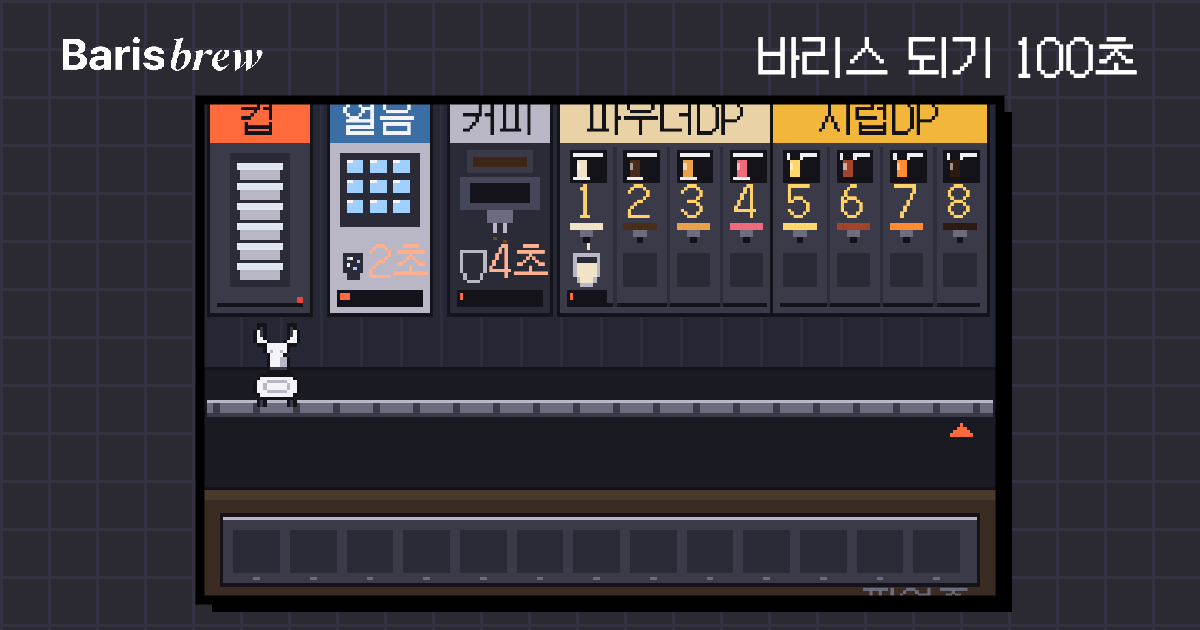
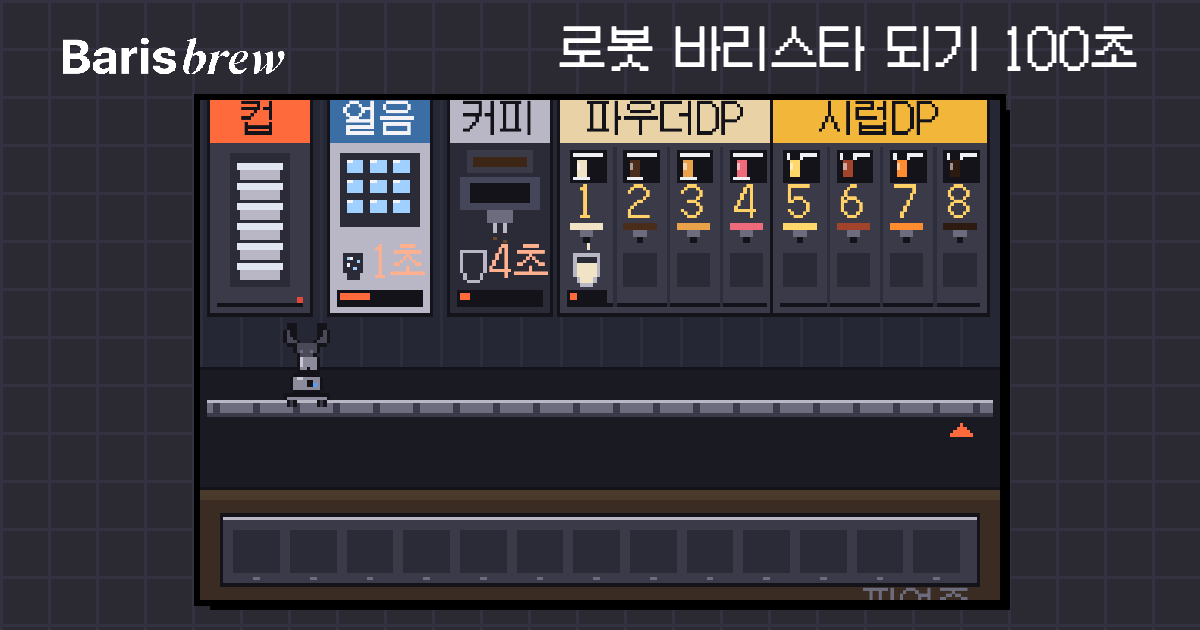
타이틀을 「로봇 바리스타 되기 100초」로 — 바리스 이름은 시작 토스트와 결과 카드에서만
Claude-Session: https://claude.ai/code/session_01AAc1fRwvLSDh1RRvPRweCr

diff --git a/index.html b/index.html
@@ -3,9 +3,9 @@
 <head>
 <meta charset="utf-8">
 <meta name="viewport" content="width=device-width, initial-scale=1, viewport-fit=cover">
-<title>바리스 되기 100초</title>
+<title>로봇 바리스타 되기 100초</title>
 <meta name="description" content="로봇 바리스타 바리스의 레일 위에서 보내는 하루. 주문을 받고, 컵을 집고, 기계에 걸어 두고 다음 컵을 집으세요.">
-<meta property="og:title" content="바리스 되기 100초">
+<meta property="og:title" content="로봇 바리스타 되기 100초">
 <meta property="og:description" content="바리스브루 로봇 바리스타의 레일 위에서 100초 영업. 몇 잔까지 만들 수 있을까?">
 <meta property="og:image" content="https://jun-xyz.github.io/baris-game/assets/og.png">
 <meta property="og:image:width" content="1200">
@@ -177,8 +177,8 @@
     <canvas class="tbg" id="tbg"></canvas>
     <div class="tlogo">
       <img src="assets/logo_barisbrew_white.png" alt="BarisBrew">
-      <h1>바리스 되기<br>100초</h1>
-      <p>로봇 바리스타의 하루 영업</p>
+      <h1>로봇 바리스타<br>되기 100초</h1>
+      <p>레일 위에서 100초, 주문을 받아 보세요</p>
     </div>
     <ul class="menu" id="menu">
       <li data-act="start">영업 시작</li>
@@ -684,7 +684,7 @@ function start() {
   g = createGame({ difficulty: settings.difficulty }); window.__game = g;
   titleOff(); $('end').classList.remove('on');
   last = performance.now(); lastEvent = 0; lastTickSec = -1; fx.length = 0; pick.length = 0; cardEls.clear(); $('orders').innerHTML = '';
-  toast('컵 기계에서 컵을 집으세요');
+  toast('저는 바리스입니다. 오늘은 당신 차례. 컵부터 집으세요.', '', 3600);
   if (!isPC) $('hint').style.display = 'none';
   clearInterval(timer); timer = setInterval(loop, 16);
   BGM.start();
@@ -726,7 +726,7 @@ function doServe() {
   }
   else { SFX.waste(); fx.push({ text: '폐기', x: ax, y: 150, ttl: 1, color: P.R }); toast('주문에 없는 음료… 폐기', 'bad'); pick.push({ kind: 'waste', cup: cupOf(r.recipe), x: ax, t0: g.t }); }
 }
-function toast(msg, cls = '') { const t = $('toast'); t.textContent = msg; t.className = 'toast ' + cls; clearTimeout(feedbackTimer); feedbackTimer = setTimeout(() => { t.className = 'toast'; }, 1800); }
+function toast(msg, cls = '', ms = 1800) { const t = $('toast'); t.textContent = msg; t.className = 'toast ' + cls; clearTimeout(feedbackTimer); feedbackTimer = setTimeout(() => { t.className = 'toast'; }, ms); }
 
 const cardEls = new Map();
 function renderOrders(g) {
@@ -821,9 +821,9 @@ function trailCanvas(scale) {
   return c;
 }
 // 브랜드 사실 — 누적 100만 잔·가동 1만 5천 시간(헬로티 2026-05-24). 사람과 속도를 견주지 않는다(100초면 사람이 늘 이김)
-const robotLine = (g) => `당신의 ${g.cfg.duration}초는 끝났지만, 바리스는 쉬지 않습니다. 누적 100만 잔 · 1만 5천 시간.`;
+const robotLine = (g) => `당신의 ${g.cfg.duration}초는 끝났지만, 바리스브루의 로봇 바리스타 「바리스」는 쉬지 않습니다. 누적 100만 잔 · 1만 5천 시간.`;
 function treatHtml(g) {
-  const gr = gradeOf(g.revenue), mail = `<a href="mailto:${TREAT_EMAIL}?subject=${encodeURIComponent('바리스 되기 100초 — ' + gr.name)}">${TREAT_EMAIL}</a>`;
+  const gr = gradeOf(g.revenue), mail = `<a href="mailto:${TREAT_EMAIL}?subject=${encodeURIComponent('로봇 바리스타 되기 100초 — ' + gr.name)}">${TREAT_EMAIL}</a>`;
   if (gr.treat) return `<div class="treat"><b>커피 한 잔 사겠습니다</b><span>이 카드를 저장해 ${mail} 로.</span></div>`;
   return `<div class="treat soft"><span>${TREAT_MIN.toLocaleString()}원(마스터)부터 커피 한 잔.</span></div>`;
 }
@@ -832,7 +832,7 @@ function finish() {
   const gr = grade(g.revenue), say = remark(g);
   const gi = GRADES.indexOf(gradeOf(g.revenue)), diff = (DIFFICULTY[g.cfg.difficulty] || DIFFICULTY.normal).label;
   $('card').innerHTML = `
-    <div class="top"><img src="assets/logo_barisbrew_black.png" alt="BarisBrew"><span>바리스 되기 100초 · ${diff}</span></div>
+    <div class="top"><img src="assets/logo_barisbrew_black.png" alt="BarisBrew"><span>로봇 바리스타 되기 100초 · ${diff}</span></div>
     <div class="hero" style="--hb:${GRADE_BG[gi]}"><canvas id="heroArt"></canvas><div class="ht"><span>등급</span><b>${gr}</b><i>${g.servedCount}잔 · 화난 손님 ${g.angry}${g.wasted ? ` · 폐기 ${g.wasted}` : ''}</i></div></div>
     <div class="rev">${g.revenue.toLocaleString()}<small>원</small></div>
     <div id="trailSlot"></div>
@@ -844,7 +844,7 @@ function finish() {
 }
 function shareText() {
   const strip = g.trail.map(x => x.kind === 'served' ? '■' : x.kind === 'angry' ? '×' : '□').join('');
-  return `바리스 되기 100초 — 매출 ${g.revenue.toLocaleString()}원 · ${g.servedCount}잔 ${strip} ${grade(g.revenue)}`;
+  return `로봇 바리스타 되기 100초 — 매출 ${g.revenue.toLocaleString()}원 · ${g.servedCount}잔 ${strip} ${grade(g.revenue)}`;
 }
 const pageUrl = () => location.href.split('#')[0].split('?')[0];
 async function share() {
@@ -869,7 +869,7 @@ async function cardBlob() {
   c.fillStyle = '#000'; c.fillRect(x + 18, y0 + 18, cw, ch); c.fillStyle = '#f6ecd3'; c.fillRect(x, y0, cw, ch); c.lineWidth = 9; c.strokeStyle = '#000'; c.strokeRect(x, y0, cw, ch);
   c.textBaseline = 'alphabetic'; c.textAlign = 'left';
   try { const img = await loadImg('assets/logo_barisbrew_black.png'); const h = 40; c.drawImage(img, lx, y0 + 60, h * img.width / img.height, h); } catch {}
-  c.fillStyle = '#7a7366'; font(28); c.textAlign = 'right'; c.fillText('바리스 되기 100초 · ' + (DIFFICULTY[g.cfg.difficulty] || DIFFICULTY.normal).label, x + cw - 54, y0 + 94); c.textAlign = 'left';
+  c.fillStyle = '#7a7366'; font(28); c.textAlign = 'right'; c.fillText('로봇 바리스타 되기 100초 · ' + (DIFFICULTY[g.cfg.difficulty] || DIFFICULTY.normal).label, x + cw - 54, y0 + 94); c.textAlign = 'left';
   const gi = GRADES.indexOf(gradeOf(g.revenue));
   let y = y0 + 150; const hh = 300;
   c.fillStyle = '#000'; c.fillRect(lx, y, inner, hh); c.fillStyle = GRADE_BG[gi]; c.fillRect(lx + 6, y + 6, inner - 12, hh - 12);

diff --git a/docs/2026-10-08-baris-game-design.md b/docs/2026-10-08-baris-game-design.md
@@ -67,6 +67,7 @@
 - **게임 속 로봇도 팔로(10-09)**: 아바타를 바꾼 뒤 「레일 차체도 팔로 바꿔」. 흰 상자 차체 → 어깨 관절(검은 중심)+받침+레일 클램프의 회색 캐리지, 팔 마디·관절 회색, 그리퍼는 짙은 회색, 파란 LED. 실물 톤(짙은 회색)을 그대로 쓰면 어두운 무대에 묻혀서 두 단계 밝은 회색(#8c8b9c)으로 올림. 좌표·동작은 그대로.
 - **상단 시계 → 남은 초(10-09)**: 「상단 시간은 100초가 떠야지 제한시간으로」. 08:00→20:00 가상 시계를 버리고 `100초`부터 내려가는 카운트다운, 10초 이하 빨강은 그대로. 「100초 = 하루」 비유는 사용법 문구에만 남김.
 - **로봇 비교 폐기 → 브랜드 사실(10-09)**: 「바리스가 100초에 2.8잔이면 사람이 무조건 빠르잖아」 → 하루 단위 복귀·품질 비교 안을 냈지만 「마케팅 포인트로 가져가기 어렵다」로 비교 자체를 뺌. 사용자 제안 「쉬지 않고 가동·24시간」을 출처로 좁혀 **「당신의 100초는 끝났지만, 바리스는 쉬지 않습니다. 누적 100만 잔 · 1만 5천 시간.」**(헬로티 2026-05-24 https://www.hellot.net/mobile/article.html?no=112746). 「24시간」은 라운지엑스24시 성수점 사례(벤처스퀘어 https://www.venturesquare.net/965075/)라 전 매장 일반화 않고 「쉬지 않습니다」로. 평균 주문 완료 1분 48초(벤처스퀘어)는 안 씀. game.js의 robotIn·ROBOT_PER_DAY는 남겨 두되 화면에선 안 쓴다. 공유 문구·OG 설명에서도 비교 제거.
+- **「바리스」는 처음엔 안 쓴다(10-11)**: 「사람들은 바리스를 모르니까 모르는 사람이 자연스럽게 알게」. 바깥에서 처음 닿는 자리(타이틀·OG·공유 문구·README)는 **「로봇 바리스타 되기 100초」**, 부제 「레일 위에서 100초, 주문을 받아 보세요」. 이름은 시작 토스트에서 로봇 목소리로 처음 등장(「저는 바리스입니다. 오늘은 당신 차례. 컵부터 집으세요.」 3.6초), 정식 소개는 결과 카드 사실 줄 「바리스브루의 로봇 바리스타 「바리스」는 쉬지 않습니다 …」에서 한 번. 등급 「바리스급」은 그대로 — 이름을 들은 뒤라 끝에서 보상으로 읽힘. 레포·주소(baris-game)는 유지. OG 이미지도 새 타이틀로 다시 생성.
 - 손님 픽업 연출: 서빙하면 컵이 카운터에 놓이고 그 주문의 손님이 걸어와 들고(웃는 얼굴) 앞으로 나간다. 화난 손님은 "!"를 띄우며 나간다. 폐기 컵은 잠깐 놓였다 치워진다. 카운터에 컵이 쌓이지 않는다(사용자 지적).
 - 손님 이름(2026-10-09 사용자 결정 "우리 회사 사람 이름으로", 노출은 성 빼고 이름만): 노션 워크스페이스 멤버 36명(xyzcorp 계정, 게스트·봇·2자 이름 제외)에서 추림. `game.js` CUSTOMER_NAMES. 대기열 안에서는 같은 이름이 겹치지 않고, 머리 색은 이름 해시로 고정. 카드 가격 줄·서빙/이탈 알림·손 패널에 표시.
 - `game.js` import에 버전 쿼리(`?v=…`)를 붙여 브라우저가 옛 로직을 캐시하지 않게 함 — 로직 바꿀 때마다 올릴 것.

diff --git a/README.md b/README.md
@@ -1,4 +1,4 @@
-# 바리스 되기 100초
+# 로봇 바리스타 되기 100초
 
 바리스브루(XYZ의 로봇 바리스타 솔루션) 홍보용 픽셀아트 미니게임. 레일 위 로봇 팔이 되어 100초 동안 주문을 받고, 컵을 집고, 기계에 걸어 두고 다음 컵을 집는다. 끝나면 같은 100초에 실제 바리스가 만드는 잔 수와 비교한다.
 
